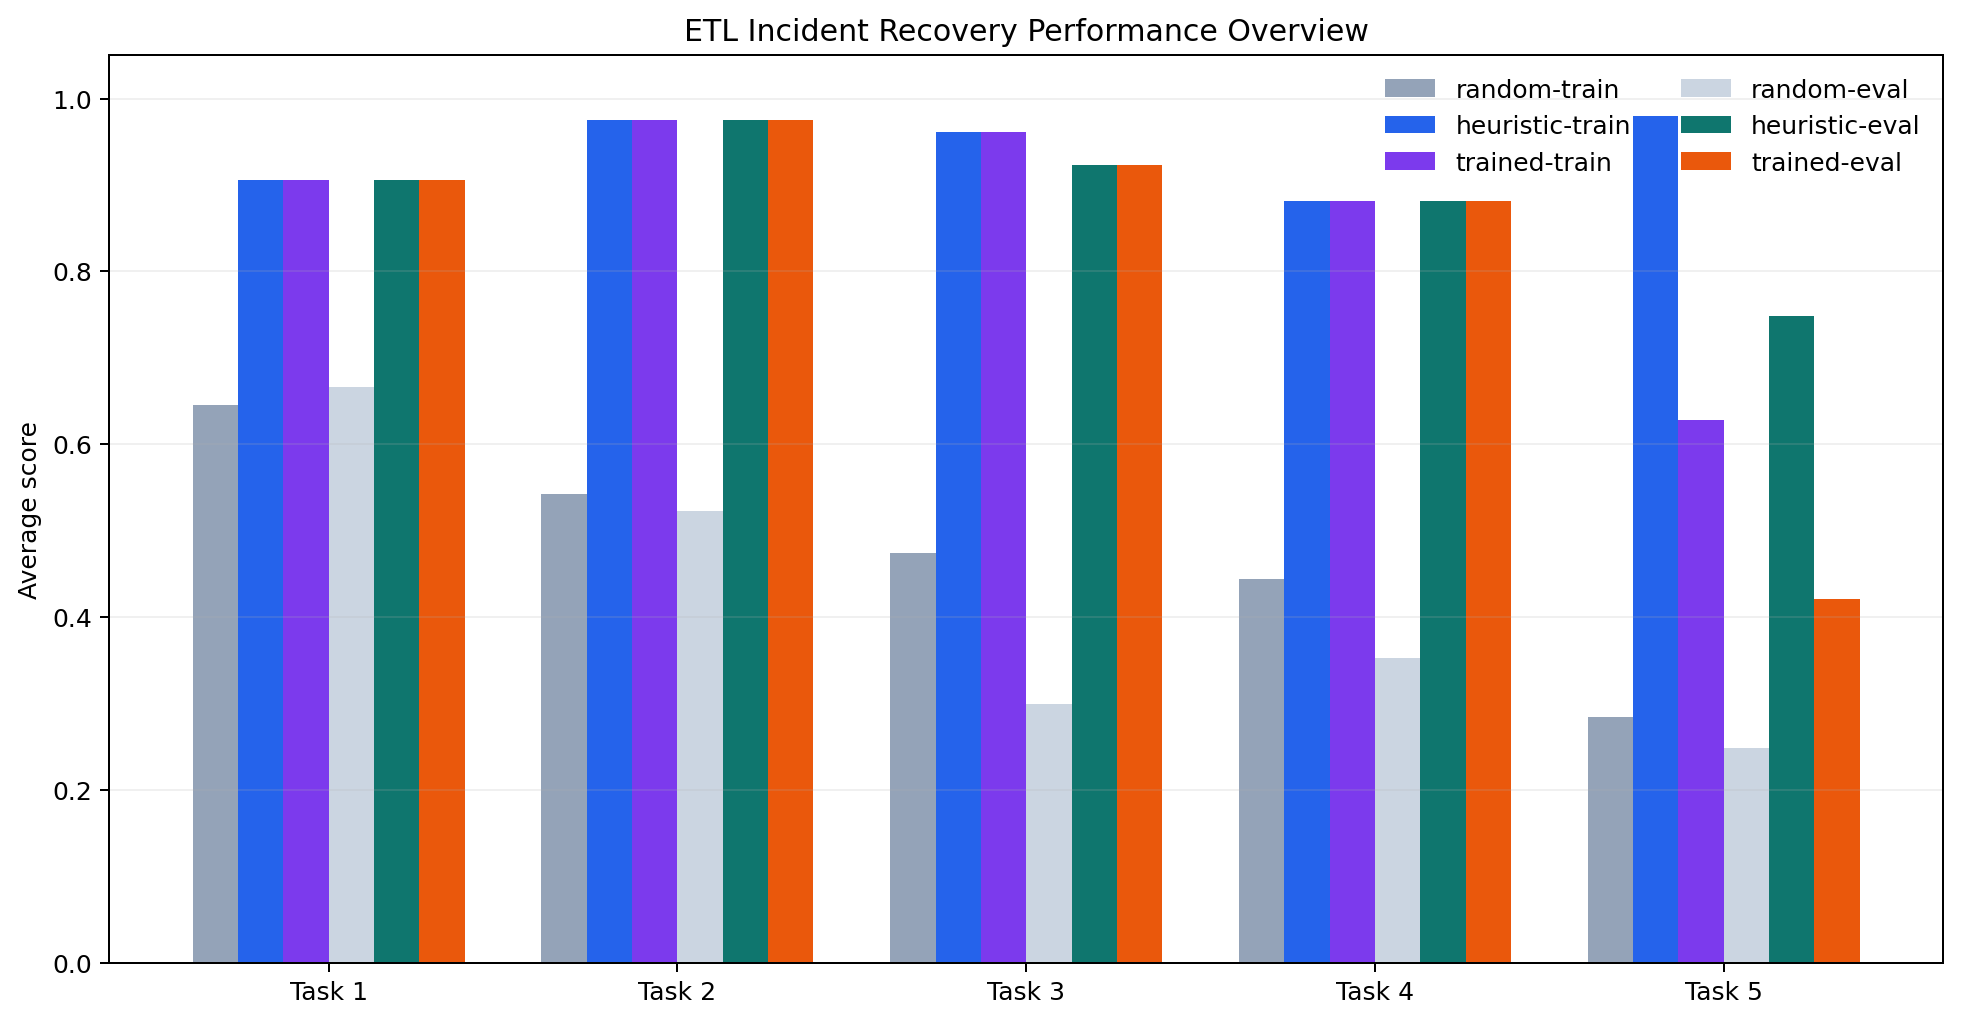
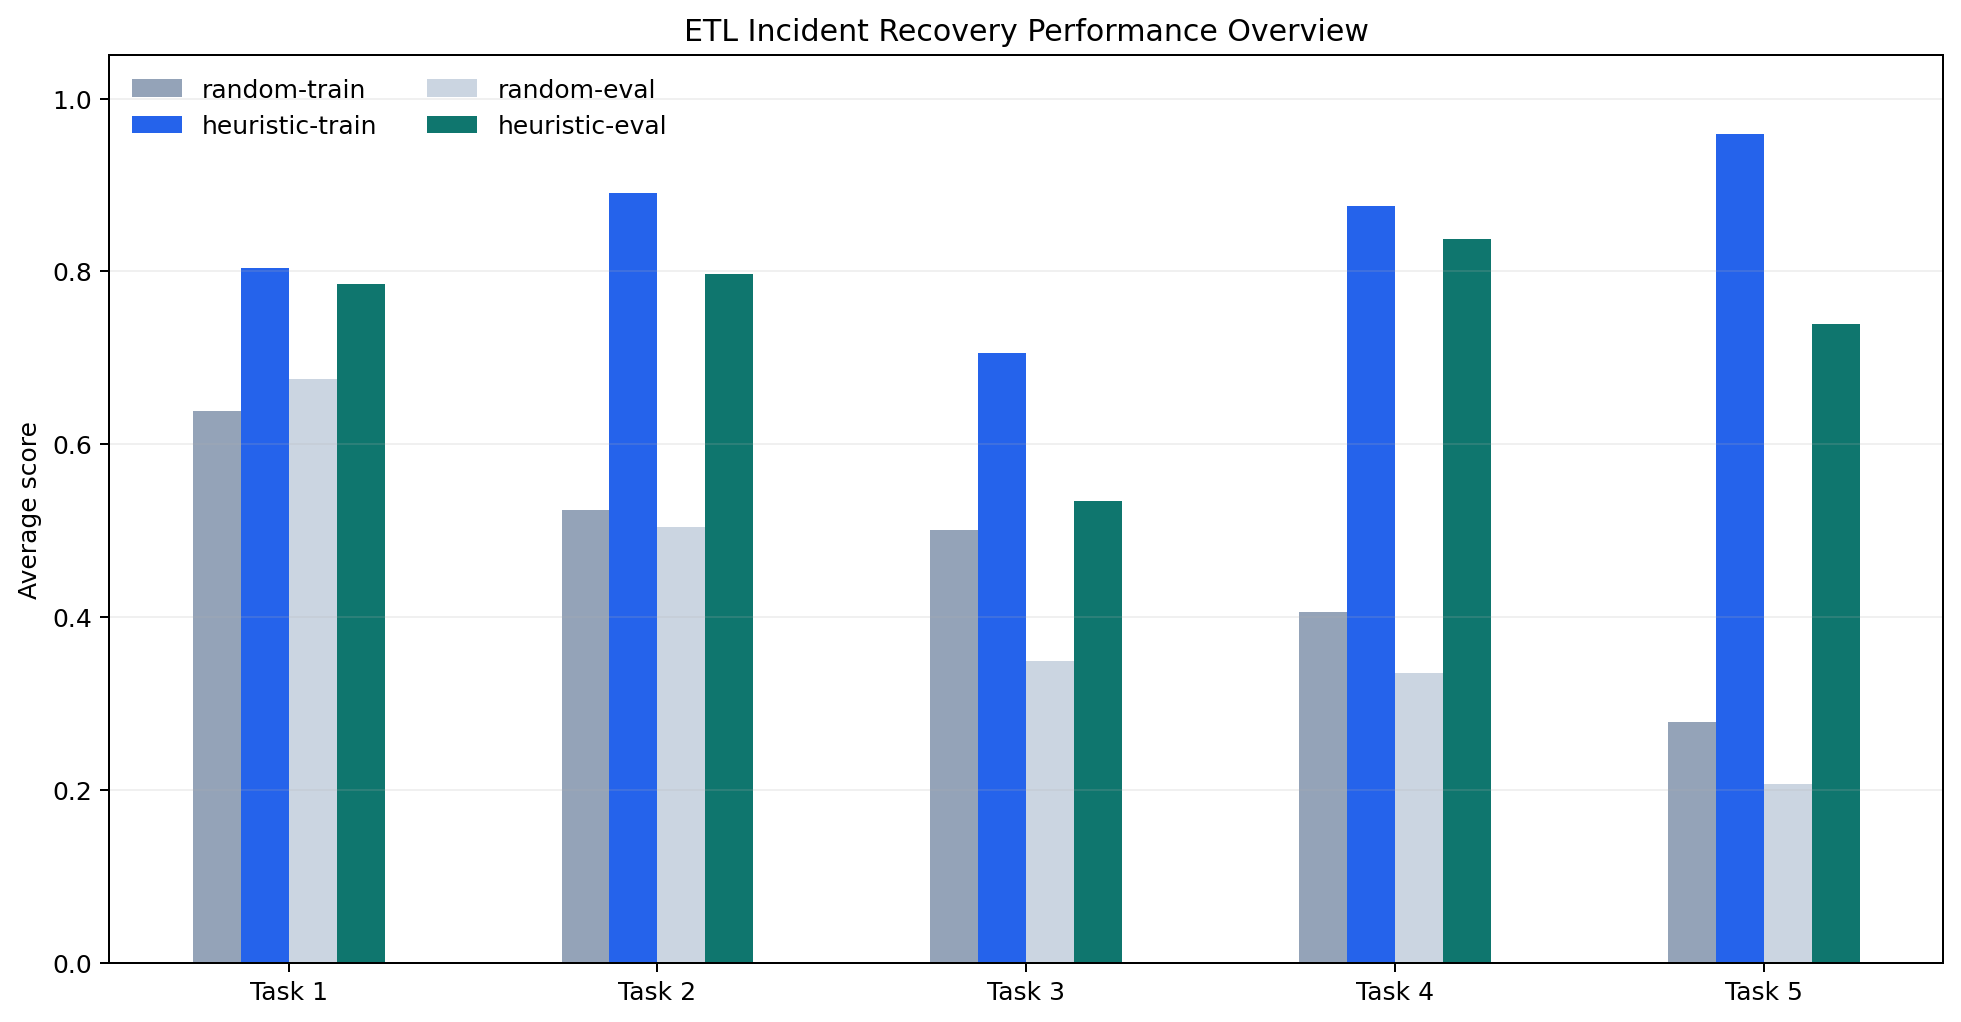
Harden benchmark: premature commit penalty, seed-randomised columns, remove task1/2 LLM bypass, parameterise /baseline endpoint, 6-seed table + exploit resistance docs
- benchmark/grading.py: Add PREMATURE_COMMIT_PENALTY=-0.25 (action 15 + score_before < task_threshold)
- server/runtime.py: Pass action_id and task_threshold through to both grading calls
- benchmark/policies/engine.py: Remove Task 1/2 candidate-action guardrail (LLM now drives freely)
- server/scenarios/task1.py: Randomise which numeric column gets primary null burst per seed
- server/scenarios/task2.py: Randomise which column gets dtype drift per seed; guard object coerce
- server/app.py: /baseline endpoint now accepts BaselineRequest(seed, split, policy_mode)
- scripts/benchmark_models.py: Guard random policy step loop against invalid orchestration errors
- scripts/generate_visuals.py: Skip missing policy/split combos instead of crashing on StopIteration
- docs/assets: Regenerate benchmark_runs.json, benchmark_metadata.json, and all three chart PNGs (6-seed run)
- README.md: 6-seed benchmark table, Exploit Resistance section, updated artifact-generation command

diff --git a/scripts/generate_visuals.py b/scripts/generate_visuals.py
@@ -38,6 +38,9 @@ def build_benchmark_overview() -> None:
         ("heuristic", "eval", "#0f766e"),
         ("trained", "eval", "#ea580c"),
     ]
+    # Only plot rows that actually exist in the report
+    available = {(item["policy"], item["split"]) for item in rows}
+    row_order = [(p, s, c) for p, s, c in row_order if (p, s) in available]
 
     fig, ax = plt.subplots(figsize=(11, 5.8))
     x = np.arange(len(tasks))
@@ -62,6 +65,7 @@ def build_benchmark_overview() -> None:
     plt.close(fig)
 
 
+
 def build_task_gap_chart() -> None:
     report = _load_json("benchmark_runs.json")
     metadata = _load_json("benchmark_metadata.json")
@@ -69,29 +73,44 @@ def build_task_gap_chart() -> None:
     initial_stats = metadata["initial_score_stats"]
     tasks = [1, 2, 3, 4, 5]
     labels = [f"Task {task_id}" for task_id in tasks]
+    available_policies = {(item["policy"], item["split"]) for item in rows}
 
     initial = []
-    random_eval = []
-    heuristic_eval = []
-    trained_eval = []
+    random_eval = [] if ("random", "eval") in available_policies else None
+    heuristic_eval = [] if ("heuristic", "eval") in available_policies else None
+    trained_eval = [] if ("trained", "eval") in available_policies else None
+
     for task_id in tasks:
         train_mean = initial_stats["train"][f"task_{task_id}"]["initial_score_mean"]
         eval_mean = initial_stats["eval"][f"task_{task_id}"]["initial_score_mean"]
         initial.append((train_mean + eval_mean) / 2.0)
-        random_row = next(item for item in rows if item["policy"] == "random" and item["split"] == "eval")
-        heuristic_row = next(item for item in rows if item["policy"] == "heuristic" and item["split"] == "eval")
-        trained_row = next(item for item in rows if item["policy"] == "trained" and item["split"] == "eval")
-        random_eval.append(random_row[f"task_{task_id}"])
-        heuristic_eval.append(heuristic_row[f"task_{task_id}"])
-        trained_eval.append(trained_row[f"task_{task_id}"])
+        if random_eval is not None:
+            random_row = next(item for item in rows if item["policy"] == "random" and item["split"] == "eval")
+            random_eval.append(random_row[f"task_{task_id}"])
+        if heuristic_eval is not None:
+            heuristic_row = next(item for item in rows if item["policy"] == "heuristic" and item["split"] == "eval")
+            heuristic_eval.append(heuristic_row[f"task_{task_id}"])
+        if trained_eval is not None:
+            trained_row = next(item for item in rows if item["policy"] == "trained" and item["split"] == "eval")
+            trained_eval.append(trained_row[f"task_{task_id}"])
+
+    # Count bars to compute offsets dynamically
+    bar_series = [("initial state", initial, "#cbd5e1")]
+    if random_eval is not None:
+        bar_series.append(("random (eval)", random_eval, "#94a3b8"))
+    if heuristic_eval is not None:
+        bar_series.append(("heuristic (eval)", heuristic_eval, "#0f766e"))
+    if trained_eval is not None:
+        bar_series.append(("trained (eval)", trained_eval, "#ea580c"))
 
     fig, ax = plt.subplots(figsize=(11, 5.8))
     x = np.arange(len(tasks))
-    width = 0.2
-    ax.bar(x - 1.5 * width, initial, width=width, color="#cbd5e1", label="initial state")
-    ax.bar(x - 0.5 * width, random_eval, width=width, color="#94a3b8", label="random (eval)")
-    ax.bar(x + 0.5 * width, heuristic_eval, width=width, color="#0f766e", label="heuristic (eval)")
-    ax.bar(x + 1.5 * width, trained_eval, width=width, color="#ea580c", label="trained (eval)")
+    width = 0.18
+    center_offset = (len(bar_series) - 1) / 2
+    for idx, (label, values, color) in enumerate(bar_series):
+        offset = (idx - center_offset) * width
+        ax.bar(x + offset, values, width=width, color=color, label=label)
+
     ax.set_ylim(0, 1.05)
     ax.set_xticks(x)
     ax.set_xticklabels(labels)
@@ -102,6 +121,7 @@ def build_task_gap_chart() -> None:
     fig.tight_layout()
     fig.savefig(ASSETS / "difficulty_gap.png", dpi=180, bbox_inches="tight")
     plt.close(fig)
+
 
 
 def build_objective_weights_chart() -> None:

diff --git a/benchmark/grading.py b/benchmark/grading.py
@@ -31,6 +31,7 @@ INVALID_PENALTY = -0.06
 TERMINAL_SUCCESS_BASE = 0.18
 TERMINAL_SUCCESS_PROGRESS_CAP = 0.1
 TERMINAL_FAILURE_PENALTY = -0.45
+PREMATURE_COMMIT_PENALTY = -0.25
 
 
 def _terminal_bonus(score_before: float, score_after: float, *, done: bool, success: bool) -> float:
@@ -47,11 +48,15 @@ def compute_reward(
     action_valid: bool,
     done: bool,
     success: bool,
+    action_id: int = -1,
+    task_threshold: float = 1.0,
 ) -> float:
     reward = PROGRESS_WEIGHT * (score_after - score_before)
     reward += STEP_COST
     if not action_valid:
         reward += INVALID_PENALTY
+    if action_id == 15 and score_before < task_threshold:
+        reward += PREMATURE_COMMIT_PENALTY
     if done and success:
         reward += _terminal_bonus(score_before, score_after, done=done, success=success)
     if done and not success:
@@ -66,17 +71,21 @@ def compute_reward_breakdown(
     action_valid: bool,
     done: bool,
     success: bool,
+    action_id: int = -1,
+    task_threshold: float = 1.0,
 ) -> dict[str, float]:
     progress = round(PROGRESS_WEIGHT * (score_after - score_before), 4)
     step_cost = STEP_COST
     invalid_penalty = INVALID_PENALTY if not action_valid else 0.0
+    premature_commit_penalty = PREMATURE_COMMIT_PENALTY if action_id == 15 and score_before < task_threshold else 0.0
     terminal_bonus = _terminal_bonus(score_before, score_after, done=done, success=success)
     terminal_penalty = TERMINAL_FAILURE_PENALTY if done and not success else 0.0
-    total = round(progress + step_cost + invalid_penalty + terminal_bonus + terminal_penalty, 4)
+    total = round(progress + step_cost + invalid_penalty + premature_commit_penalty + terminal_bonus + terminal_penalty, 4)
     return {
         "progress": progress,
         "step_cost": step_cost,
         "invalid_penalty": invalid_penalty,
+        "premature_commit_penalty": premature_commit_penalty,
         "terminal_bonus": terminal_bonus,
         "terminal_penalty": terminal_penalty,
         "total": total,

diff --git a/server/scenarios/task1.py b/server/scenarios/task1.py
@@ -31,17 +31,19 @@ def generate_task1(
         }
     )
     broken = ground_truth.copy()
-    age_null_count = int(rng.integers(1, 3))
-    spend_null_count = 1
-    age_null_rows = rng.choice(len(broken), size=age_null_count, replace=False)
-    spend_candidates = [index for index in range(len(broken)) if index not in age_null_rows]
-    spend_null_rows = rng.choice(
-        spend_candidates,
-        size=min(spend_null_count, len(spend_candidates)),
+    numeric_cols = ["age", "monthly_spend"]
+    primary_col, secondary_col = (numeric_cols if rng.random() < 0.5 else list(reversed(numeric_cols)))
+    primary_null_count = int(rng.integers(1, 3))
+    secondary_null_count = 1
+    primary_null_rows = rng.choice(len(broken), size=primary_null_count, replace=False)
+    secondary_candidates = [i for i in range(len(broken)) if i not in primary_null_rows]
+    secondary_null_rows = rng.choice(
+        secondary_candidates,
+        size=min(secondary_null_count, len(secondary_candidates)),
         replace=False,
     )
-    broken.loc[age_null_rows, "age"] = np.nan
-    broken.loc[spend_null_rows, "monthly_spend"] = np.nan
+    broken.loc[primary_null_rows, primary_col] = float("nan")
+    broken.loc[secondary_null_rows, secondary_col] = float("nan")
 
     if profile in {"currency_contract_regression", "signup_contract_drift"} or rng.random() < 0.4:
         broken["monthly_spend"] = broken["monthly_spend"].astype(object)

diff --git a/server/scenarios/task2.py b/server/scenarios/task2.py
@@ -29,13 +29,19 @@ def generate_task2(
         }
     )
     broken = ground_truth.copy()
-    broken["age"] = broken["age"].astype(str)
-    broken["amount"] = broken["amount"].astype(str)
+    dtype_cols = ["age", "amount"]
+    primary_drift_col, secondary_drift_col = (dtype_cols if rng.random() < 0.5 else list(reversed(dtype_cols)))
+    broken[primary_drift_col] = broken[primary_drift_col].astype(str)
+    if rng.random() < 0.7:
+        broken[secondary_drift_col] = broken[secondary_drift_col].astype(str)
     broken = pd.concat([broken, broken.iloc[[1, 4]]], ignore_index=True)
+
     if profile == "outlier_currency_regression" or rng.random() < 0.3:
+        broken["amount"] = broken["amount"].astype(object)
         broken.loc[0, "amount"] = "999999.0"
     if profile in {"event_contract_breakage", "outlier_currency_regression"} or split == "eval" or rng.random() < 0.5:
-        broken["amount"] = broken["amount"].map(lambda value: f"INR {value}")
+        broken["amount"] = broken["amount"].astype(object).map(lambda value: f"INR {value}")
+
     if profile == "event_contract_breakage" or split == "eval" or rng.random() < 0.4:
         broken["event_date"] = broken["event_date"].astype(object)
         date_rows = rng.choice(len(broken), size=int(rng.integers(2, 5)), replace=False)

diff --git a/server/app.py b/server/app.py
@@ -120,11 +120,23 @@ def grader(request: GraderRequest) -> dict[str, object]:
     return payload
 
 
-@app.post("/baseline")
-def baseline() -> dict[str, object]:
-    """Run the local submission baseline."""
+class BaselineRequest(BaseModel):
+    """Request body for the /baseline endpoint."""
 
-    return run_baseline()
+    seed: int = 42
+    split: str = "train"
+    policy_mode: str = "hybrid"
+
+
+@app.post("/baseline")
+def baseline(request: BaselineRequest) -> dict[str, object]:
+    """Run the local submission baseline with configurable seed, split, and policy mode."""
+
+    return run_baseline(
+        seed=request.seed,
+        split=request.split,
+        policy_mode=request.policy_mode,
+    )
 
 
 def main(host: str = "0.0.0.0", port: int = 8000) -> None:

diff --git a/server/runtime.py b/server/runtime.py
@@ -102,6 +102,8 @@ def resolve_step(env, *, action_id: int, score_before: float, action_valid: bool
         action_valid=action_valid,
         done=done,
         success=success,
+        action_id=action_id,
+        task_threshold=TASK_THRESHOLDS[env._task_id],
     )
     reward_breakdown = compute_reward_breakdown(
         score_before,
@@ -109,6 +111,8 @@ def resolve_step(env, *, action_id: int, score_before: float, action_valid: bool
         action_valid=action_valid,
         done=done,
         success=success,
+        action_id=action_id,
+        task_threshold=TASK_THRESHOLDS[env._task_id],
     )
 
     env._state.current_score = score_after

diff --git a/scripts/benchmark_models.py b/scripts/benchmark_models.py
@@ -30,7 +30,12 @@ def run_random_baseline(seed: int, *, split: str = "train") -> dict[str, Any]:
             if env.state.done:
                 break
             action = _random_action(env, observation, rng)
-            observation = env.step(action)
+            try:
+                observation = env.step(action)
+            except (ValueError, KeyError):
+                # Random actions can trigger invalid orchestration paths;
+                # treat as a no-op and continue.
+                pass
             if env.state.done:
                 break
 

diff --git a/benchmark/policies/engine.py b/benchmark/policies/engine.py
@@ -147,7 +147,4 @@ def stabilize_action(
     if task_id == 3 and model_action.action_id == 15 and not observation.commit_ready:
         return heuristic_action
 
-    if task_id in (1, 2) and not is_candidate_action(model_action, candidate_actions):
-        return heuristic_action
-
     return model_action

diff --git a/README.md b/README.md
@@ -81,14 +81,27 @@ flowchart LR
 
 ## Recovery Proof
 
-Current local sweep from [scripts/benchmark_models.py](scripts/benchmark_models.py) over seeds `1 2`:
+Current local sweep from [scripts/benchmark_models.py](scripts/benchmark_models.py) over seeds `1 2 3 4 5 6`:
 
 | Policy | Split | Avg Score | Task 1 | Task 2 | Task 3 | Task 4 | Task 5 |
 |---|---:|---:|---:|---:|---:|---:|---:|
-| random | train | `0.4915` | `0.6459` | `0.5425` | `0.4743` | `0.5108` | `0.2839` |
-| heuristic | train | `0.9464` | `0.9062` | `0.9750` | `0.9610` | `0.9100` | `0.9795` |
-| random | eval | `0.4809` | `0.6659` | `0.5225` | `0.5131` | `0.4549` | `0.2480` |
-| heuristic | eval | `0.8362` | `0.9062` | `0.9750` | `0.7945` | `0.7647` | `0.7407` |
+| random | train | `0.4694` | `0.6382` | `0.5242` | `0.5004` | `0.4059` | `0.2784` |
+| heuristic | train | `0.8471` | `0.8042` | `0.8908` | `0.7058` | `0.8762` | `0.9588` |
+| random | eval | `0.4139` | `0.6753` | `0.5042` | `0.3485` | `0.3351` | `0.2065` |
+| heuristic | eval | `0.7386` | `0.7850` | `0.7975` | `0.5338` | `0.8376` | `0.7389` |
+
+## Exploit Resistance
+
+Mario implements four active penalty mechanisms to prevent reward hacking and Goodhart's Law shortcuts:
+
+| Mechanism | Constant | Trigger |
+|---|---|---|
+| Step cost | `-0.004` | Every step taken (penalises padding) |
+| Invalid action penalty | `-0.06` | Action fails structural validation |
+| Terminal failure penalty | `-0.45` | Agent commits below the success threshold |
+| **Premature commit penalty** | **`-0.25`** | **Agent commits (action 15) while `score < task_threshold`** |
+
+The premature commit penalty is a direct implementation of the reward-hacking trip wire described in Lilian Weng's 2024 survey on agent safety. An agent that blindly issues commit without assessing pipeline state receives a sustained negative shaping signal. Combined with randomised null columns per seed (Tasks 1–2) and randomised drift columns per seed (Tasks 1–2), a hardcoded action sequence that works on one seed will underperform on others — directly addressing Goodhart's Law.
 
 Held-out adaptation from [scripts/benchmark_adaptation.py](scripts/benchmark_adaptation.py):
 
@@ -211,7 +224,7 @@ Generate benchmark artifacts:
 
 ```bash
 python3 -m scripts.train_trained_policy --seeds 1 2 3 4 5 6 7 8 9 10
-python3 -m scripts.benchmark_models --policies random heuristic --splits train eval --seeds 1 2 --format markdown
+python3 -m scripts.benchmark_models --policies random heuristic --splits train eval --seeds 1 2 3 4 5 6 --format markdown
 python3 -m scripts.benchmark_adaptation --policy-mode heuristic --seeds 1 2 3 4 5 6
 python3 -m scripts.export_benchmark_metadata --seeds 1 2 3 4 5 6 --output docs/assets/benchmark_metadata.json
 python3 -m scripts.generate_visuals
